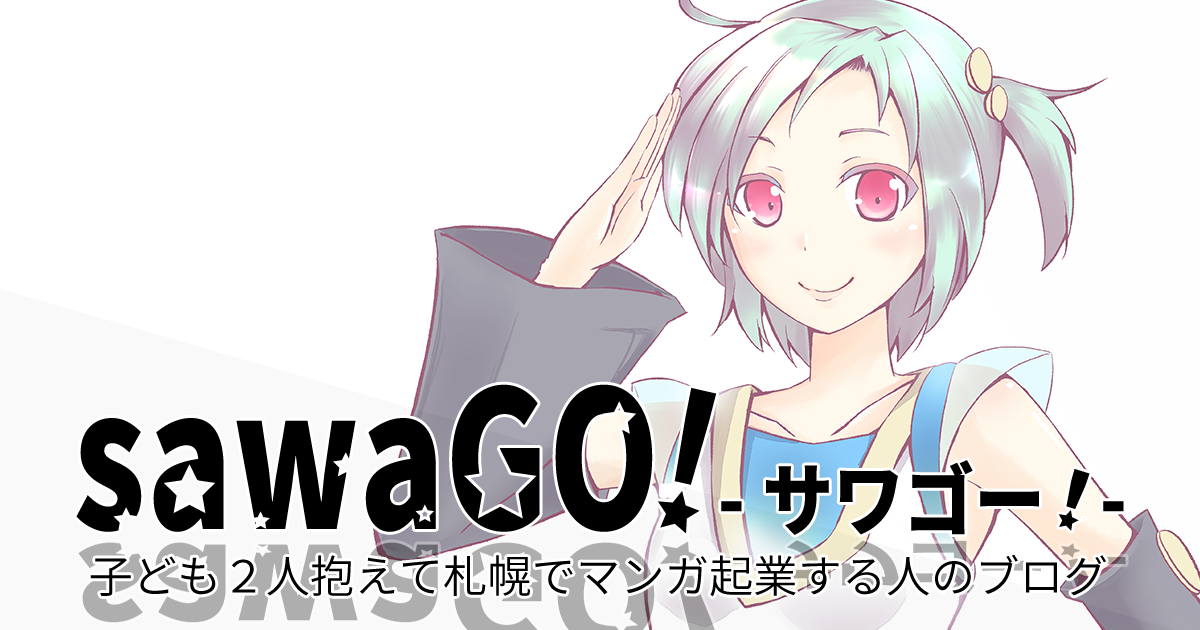
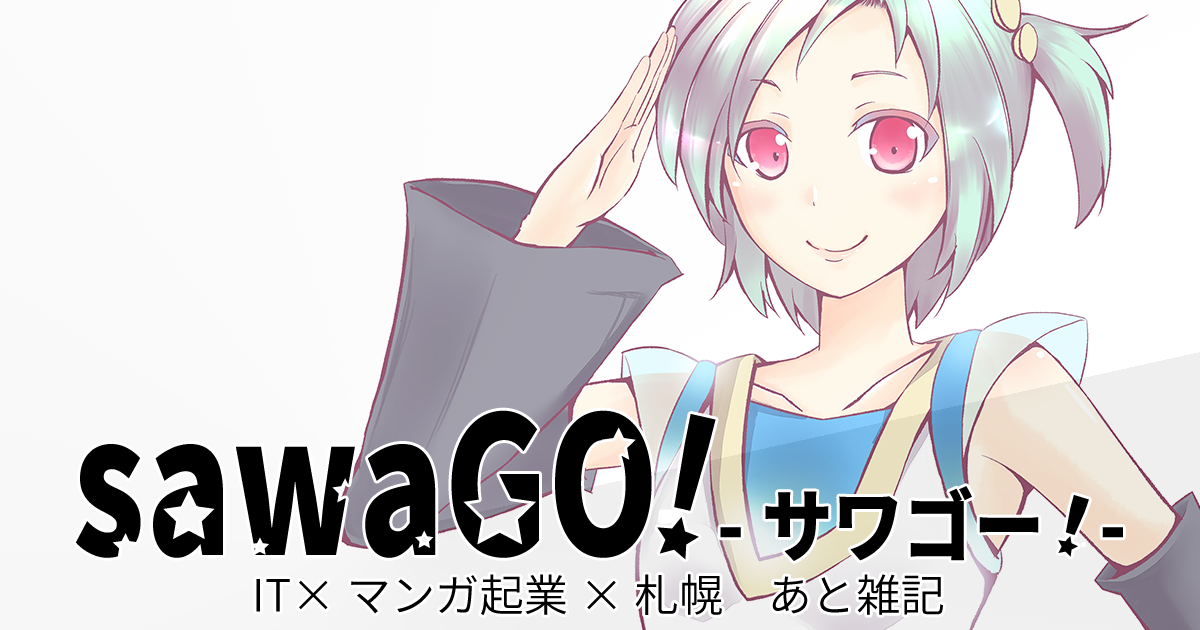
logo修正

diff --git a/sawasawaworks/js/main.js b/sawasawaworks/js/main.js
@@ -400,7 +400,7 @@ $(function(){
             // 現在ページのURL取得
             var url   = location.href;
             if (url != "http://test-sawasawaworksblog.tumblr.com/") {
-                var setTitle_head = setTitle + " | sawaGO!(サワゴー！)-子供２人抱えて札幌でマンガ起業する人のブログ-";
+                var setTitle_head = setTitle + " | sawaGO!(サワゴー！)-IT × マンガ起業 × 札幌　あと雑記-";
                     document.title = setTitle_head;                // タイトルを挿入
                 $("meta[property='og:title']").attr('content', setTitle_head );
                 $("meta[name='twitter:title']").attr('content', setTitle_head );
